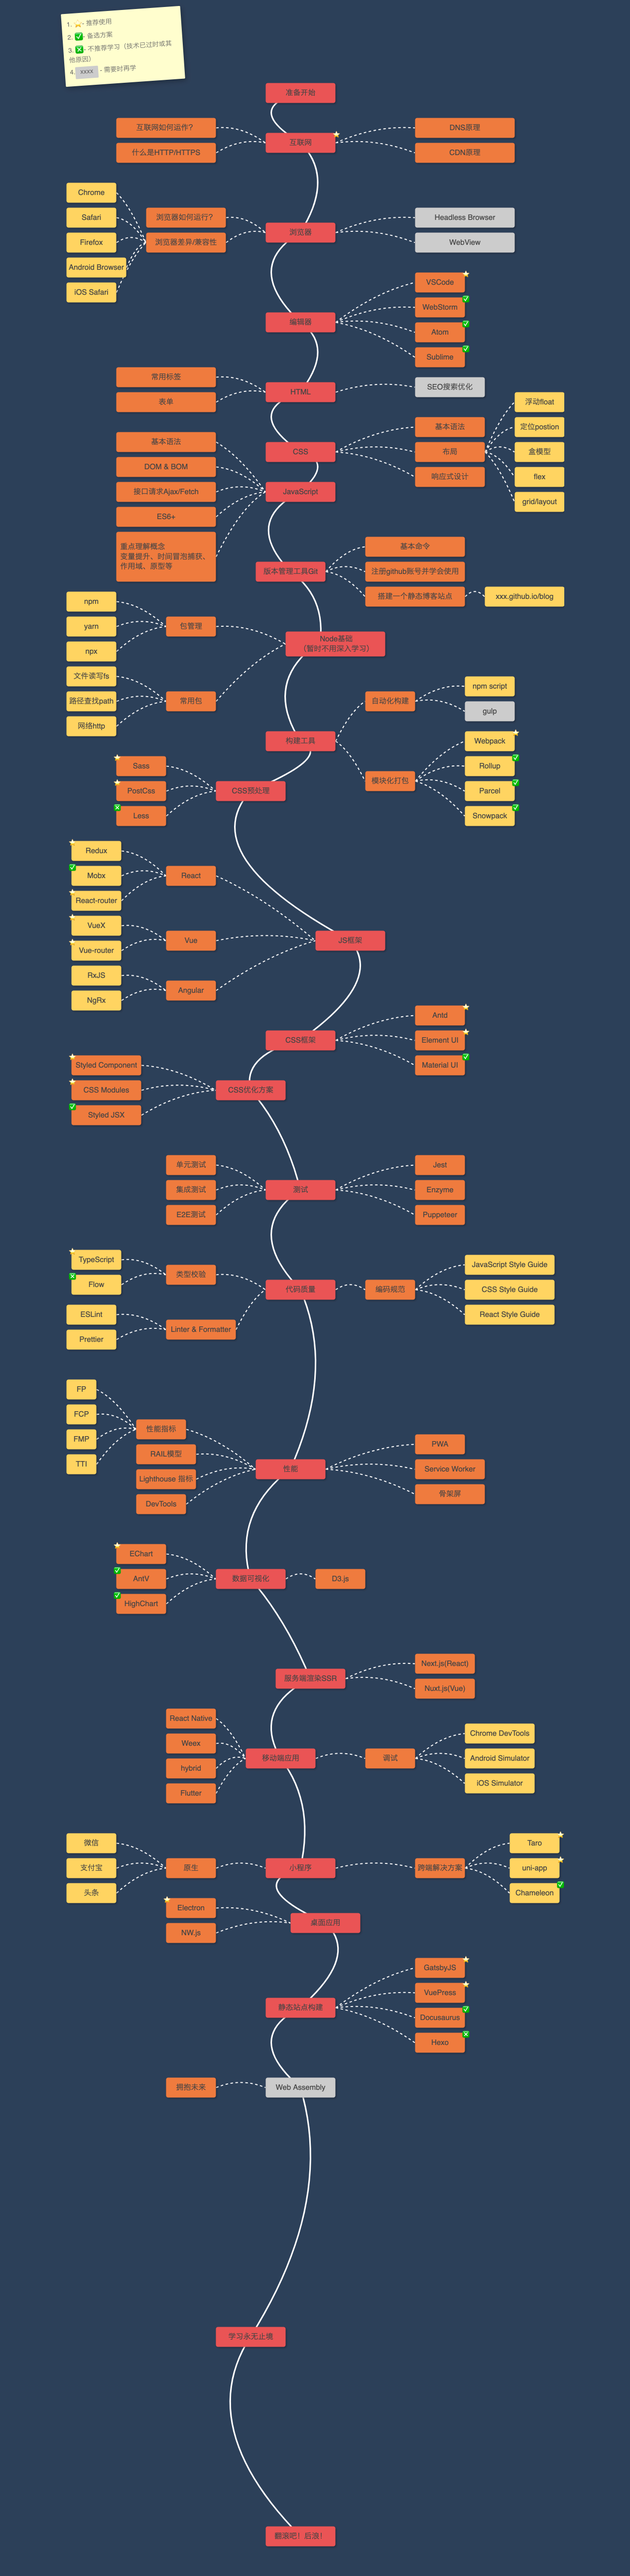
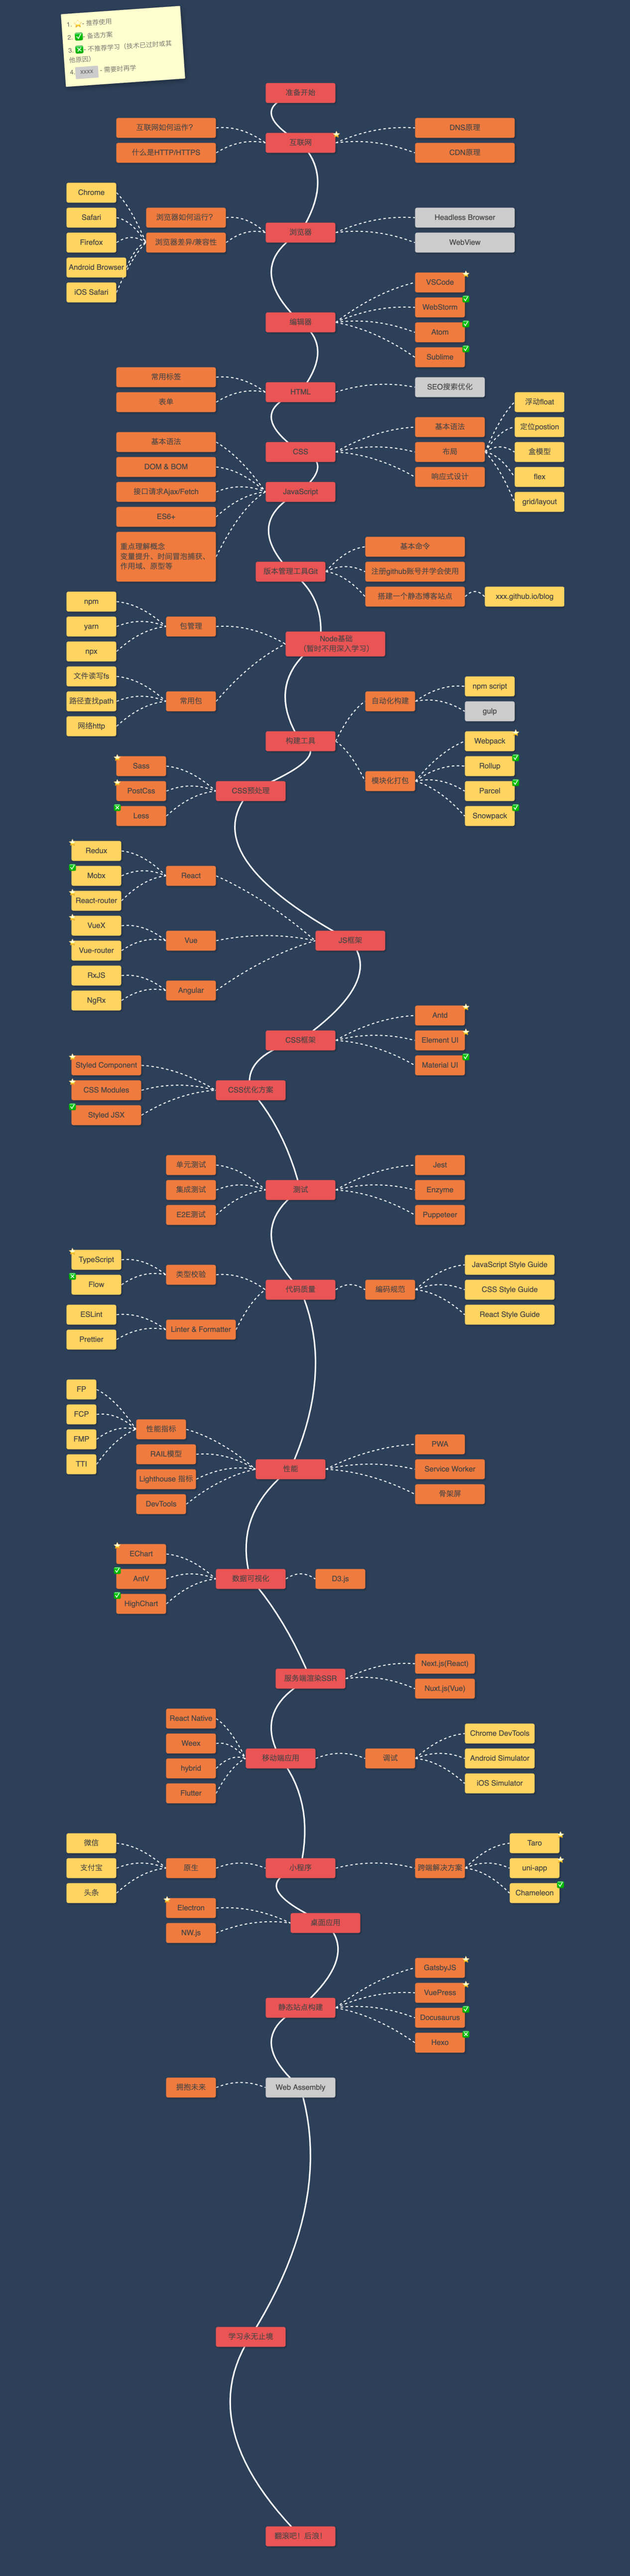
feat: adjust display & compress roadmap.jpeg & fix tiny bug

diff --git a/src/page/index/index.js b/src/page/index/index.js
@@ -8,20 +8,26 @@ import drawRoadmap from "./drawRoadmap";
 import * as roadMap from "./roadmap";
 import "./style.css";
 
+const defaultHeight = 5000;
+
 const options = [
-  { value: "all", label: "完整路线" },
-  { value: "p1", label: "👶🏻 阶段1" },
-  { value: "p2", label: "👦🏻 阶段2" },
-  { value: "p3", label: "👨🏻 阶段3" },
+  { value: "all", label: "完整路线", canvasHeight: 5000 },
+  { value: "p1", label: "👶🏻 阶段1", canvasHeight: 2000 },
+  { value: "p2", label: "👦🏻 阶段2", canvasHeight: 3000 },
+  { value: "p3", label: "👨🏻 阶段3", canvasHeight: 2000 },
   //   { value: "p10000", label: "👴🏻 养生路线" },  // 这个也挺重要的，哈哈！(手动狗头
 ];
 
 function Index() {
+
   const history = useHistory();
+
   const [process, setProcess] = useState("all");
+  const [height, setHeight] = useState(defaultHeight);
   const [showTag, setShowTag] = useState(true);
+
   useEffect(() => {
-    const canvas = drawRoadmap(`roadmap-${process}`, roadMap[process], showTag);
+    const canvas = drawRoadmap(`roadmapCanvas`, roadMap[process], showTag);
     canvas.on("mouse:down", (options) => {
       if (options.target && options.target.link) {
         history.push(`/guide${options.target.link}`);
@@ -29,8 +35,13 @@ function Index() {
     });
   }, [history, process, showTag]);
 
-  const onSelectProcess = useCallback(({ value }) => {
+  const onSelectProcess = useCallback(({ value, canvasHeight }) => {
     setProcess(value);
+    // setHeight(canvasHeight); // TODO: canvas x,y 固定的，看怎么动态？
+  }, []);
+
+  const onShowTag = useCallback((value) => {
+    setShowTag(value);
   }, []);
 
   const onDownloadImg = useCallback(() => {
@@ -43,9 +54,6 @@ function Index() {
     });
   }, []);
 
-  const onShowTag = useCallback((value) => {
-    setShowTag(value);
-  }, []);
   return (
     <div className="roadmap-container">
       <div className="process-select-container">
@@ -86,44 +94,9 @@ function Index() {
             </div>
           </div>
         )}
-        {process === "all" && showTag && (
+        {(
           <div>
-            <canvas id="roadmap-all" height="5000px" width="1000px"></canvas>
-          </div>
-        )}
-        {process === "all" && !showTag && (
-          <div>
-            <canvas id="roadmap-all" height="5000px" width="1000px"></canvas>
-          </div>
-        )}
-        {process === "p1" && showTag && (
-          <div>
-            <canvas id="roadmap-p1" height="5000px" width="1000px"></canvas>
-          </div>
-        )}
-        {process === "p1" && !showTag && (
-          <div>
-            <canvas id="roadmap-p1" height="5000px" width="1000px"></canvas>
-          </div>
-        )}
-        {process === "p2" && !showTag && (
-          <div>
-            <canvas id="roadmap-p2" height="5000px" width="1000px"></canvas>
-          </div>
-        )}
-        {process === "p2" && showTag && (
-          <div>
-            <canvas id="roadmap-p2" height="5000px" width="1000px"></canvas>
-          </div>
-        )}
-        {process === "p3" && !showTag && (
-          <div>
-            <canvas id="roadmap-p3" height="5000px" width="1000px"></canvas>
-          </div>
-        )}
-        {process === "p3" && showTag && (
-          <div>
-            <canvas id="roadmap-p3" height="5000px" width="1000px"></canvas>
+            <canvas id={`roadmapCanvas`} height={`${height}px`} width="1000px"></canvas>
           </div>
         )}
       </div>

diff --git a/src/page/index/roadmap.js b/src/page/index/roadmap.js
@@ -32,11 +32,11 @@ export const all = [
       [
         c("浏览器如何运行？", 160, 160),
         c("浏览器差异/兼容性", 160, 160, {}, [
-          c("Chrome", 0, 100),
-          c("Safari", 0, 100),
-          c("Firefox", 0, 100),
+          c("Chrome", 0, 120),
+          c("Safari", 0, 120),
+          c("Firefox", 0, 120),
           c("Android Browser", 0, 120),
-          c("iOS Safari", 0, 100),
+          c("iOS Safari", 0, 120),
         ]),
       ],
       [
@@ -367,10 +367,10 @@ export const all = [
         ]),
       ],
       [
-        c("跨端解决方案", 700, 100, {}, [
-          c("Taro", 890, 100, { tag: TAG.recommand }),
-          c("uni-app", 890, 100, { tag: TAG.recommand }),
-          c("Chameleon", 890, 100, { tag: TAG.optional }),
+        c("跨端解决方案", 660, 100, {}, [
+          c("Taro", 850, 100, { tag: TAG.recommand }),
+          c("uni-app", 850, 100, { tag: TAG.recommand }),
+          c("Chameleon", 850, 100, { tag: TAG.optional }),
         ]),
       ],
     ],

diff --git a/src/page/index/drawRoadmap.js b/src/page/index/drawRoadmap.js
@@ -170,13 +170,21 @@ export function makeSubLine(c1, c2) {
   return line;
 }
 
+
+let canvas = null;
 export default function drawRoadmap(id, roadmap, isShowTag) {
-  const canvas = new fabric.Canvas(id, {
-    containerClass: "roadmap-canvas",
-    selection: false,
-    interactive: false,
-    hoverCursor: "pointer",
-  });
+
+  if(canvas){
+    canvas.clear();
+  }else{
+    canvas = new fabric.Canvas(id, {
+      containerClass: "roadmap-canvas",
+      selection: false,
+      interactive: false,
+      hoverCursor: "pointer",
+    });
+  }
+
   const arr = [];
   const lines = [];
   // 上一个绘制的主轴的卡片

diff --git a/src/components/header/index.js b/src/components/header/index.js
@@ -2,7 +2,7 @@ import React from "react";
 import LOGO from "../../assets/logo.jpeg";
 export default function Header() {
   return (
-    <div div className="header">
+    <div className="header">
       <div className="top">
         <img
           src={LOGO}
@@ -14,7 +14,7 @@ export default function Header() {
         <span className="github-button">
           <iframe
             src="https://ghbtns.com/github-btn.html?user=objtube&repo=front-end-roadmap&type=star&count=true&size=large"
-            frameborder="0"
+            frameBorder="0"
             scrolling="0"
             width="170"
             height="30"

diff --git a/README.md b/README.md
@@ -1,8 +1,8 @@
-# Front-End-Roadmap 🧶🦌
+# Front End Roadmap 🧶🦌
 
 🚀[访问路线](https://objtube.github.io/front-end-roadmap/#/)
 
-📺[Up主视频讲解前端学习路线](https://www.bilibili.com/video/BV1ZZ4y1H7rU/)
+📺[Up 主视频讲解前端学习路线](https://www.bilibili.com/video/BV1ZZ4y1H7rU/)
 
 ![路线图](./roadmap.jpeg)
 
